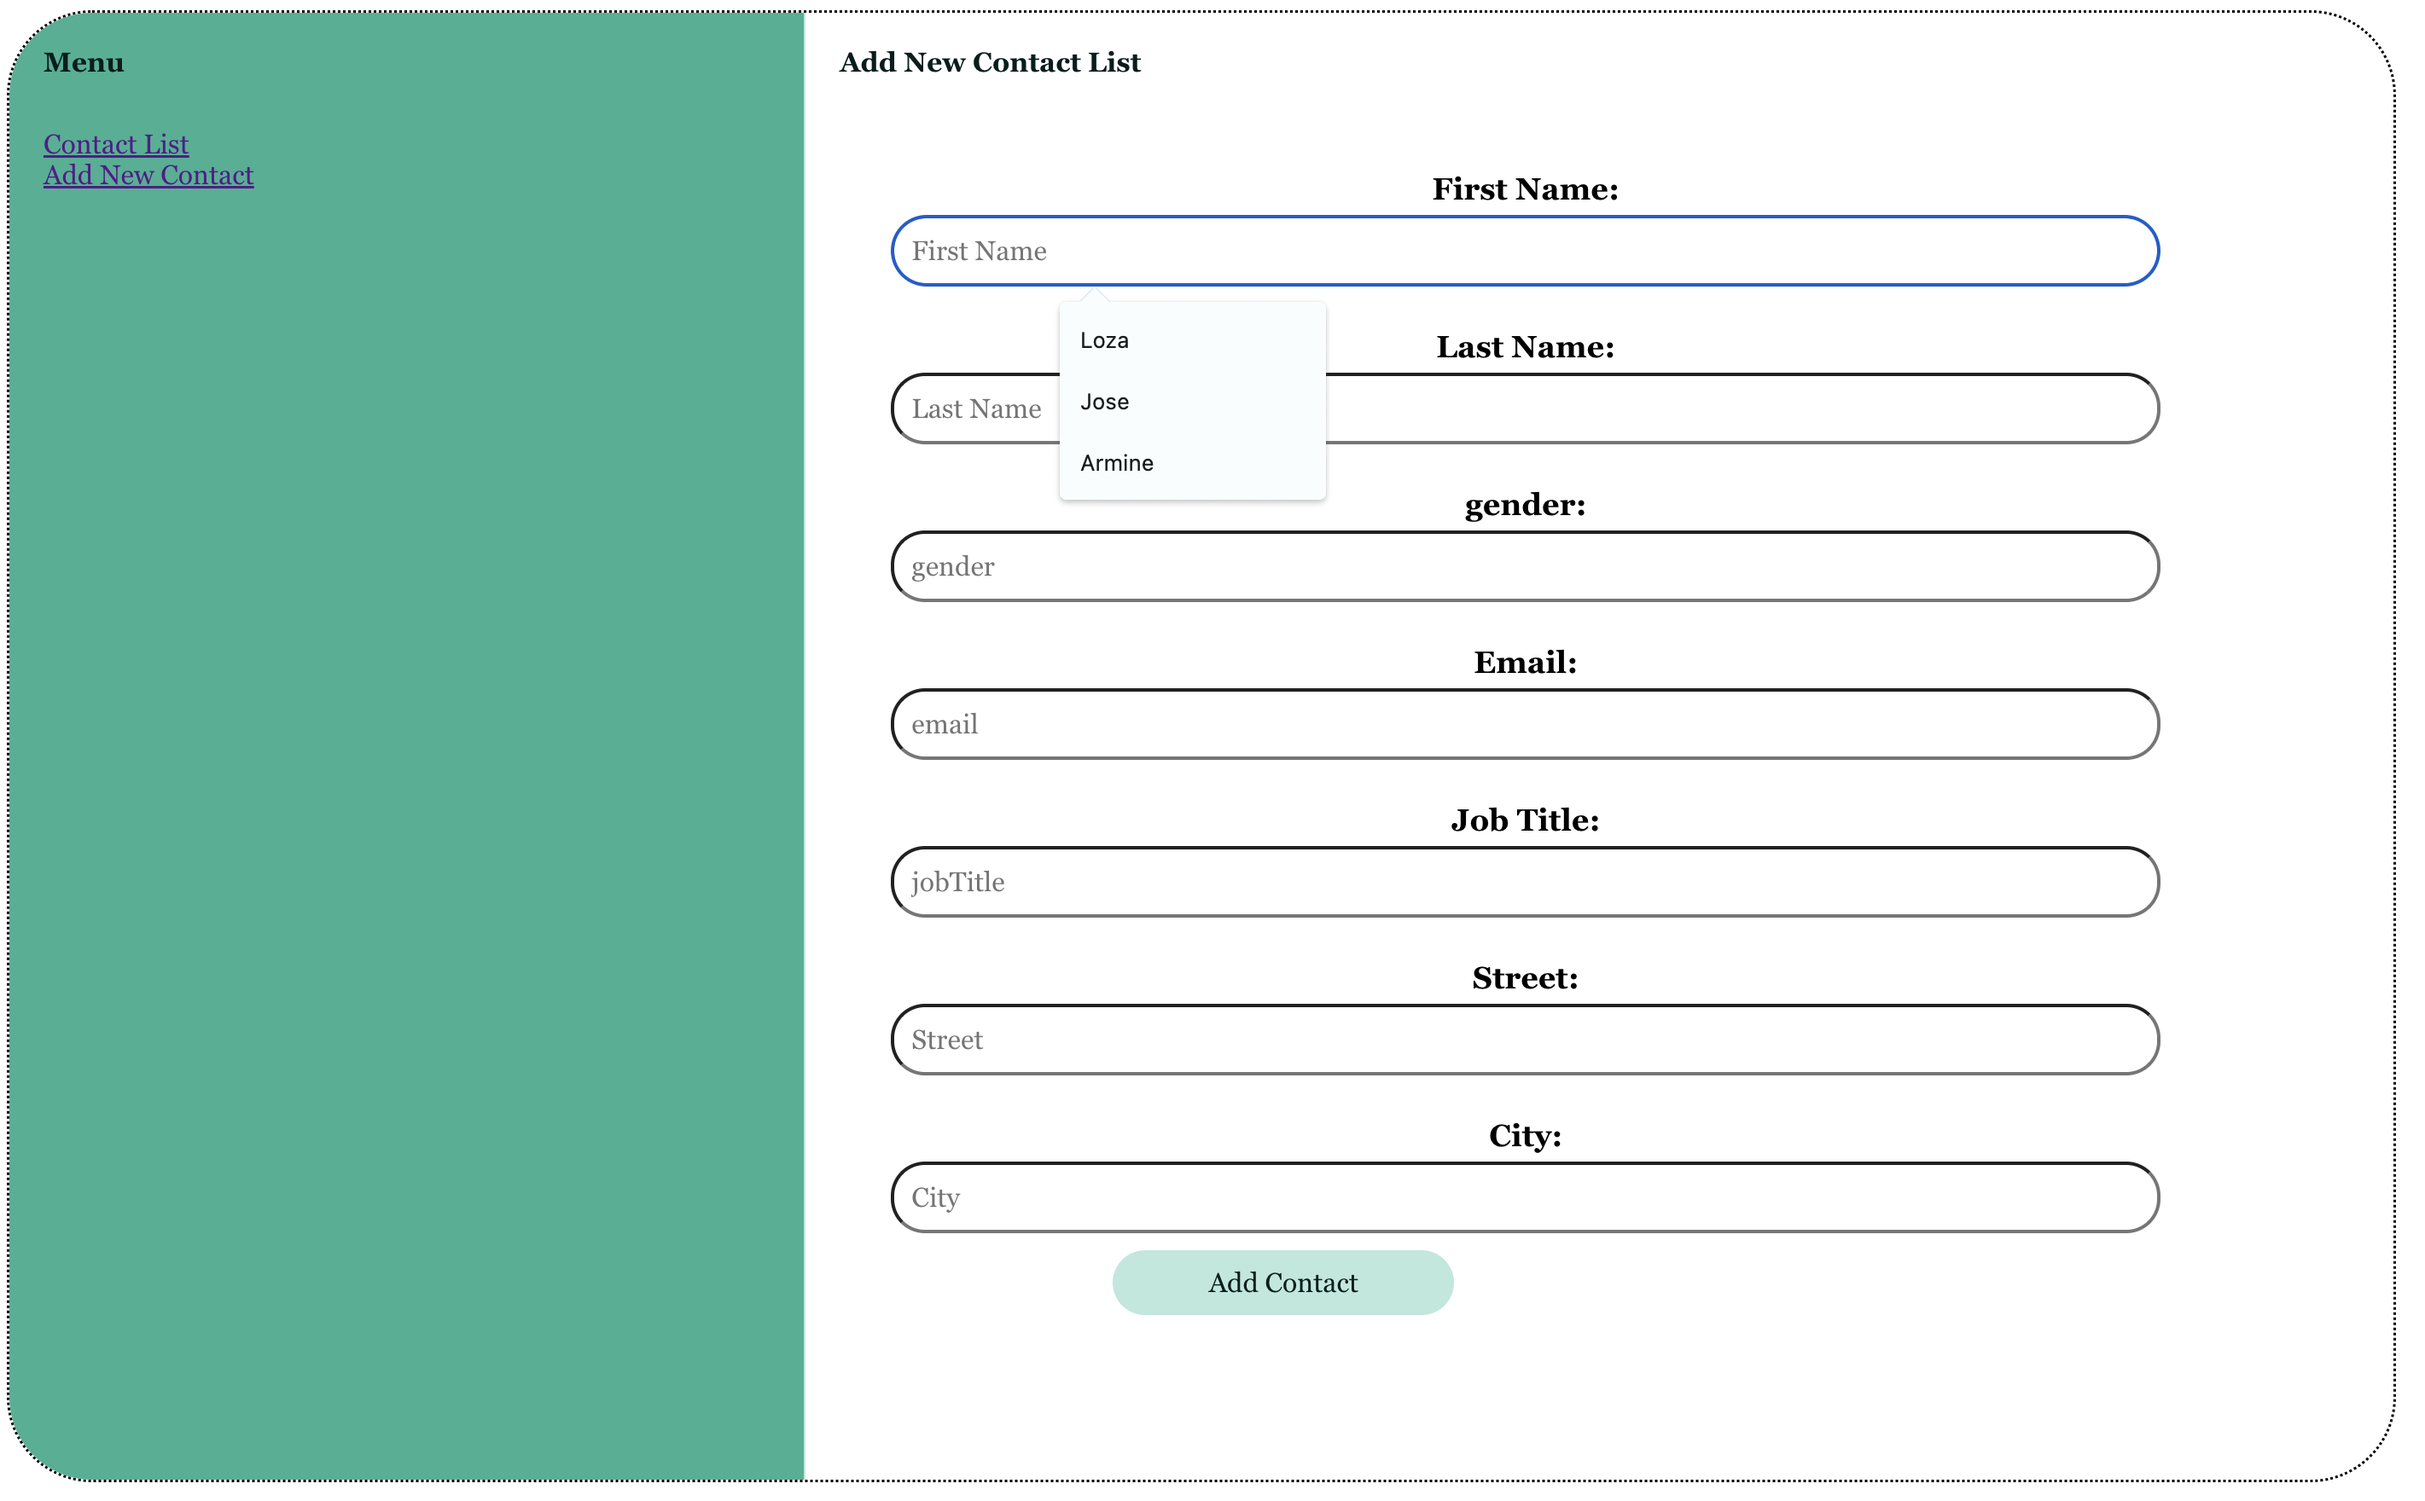
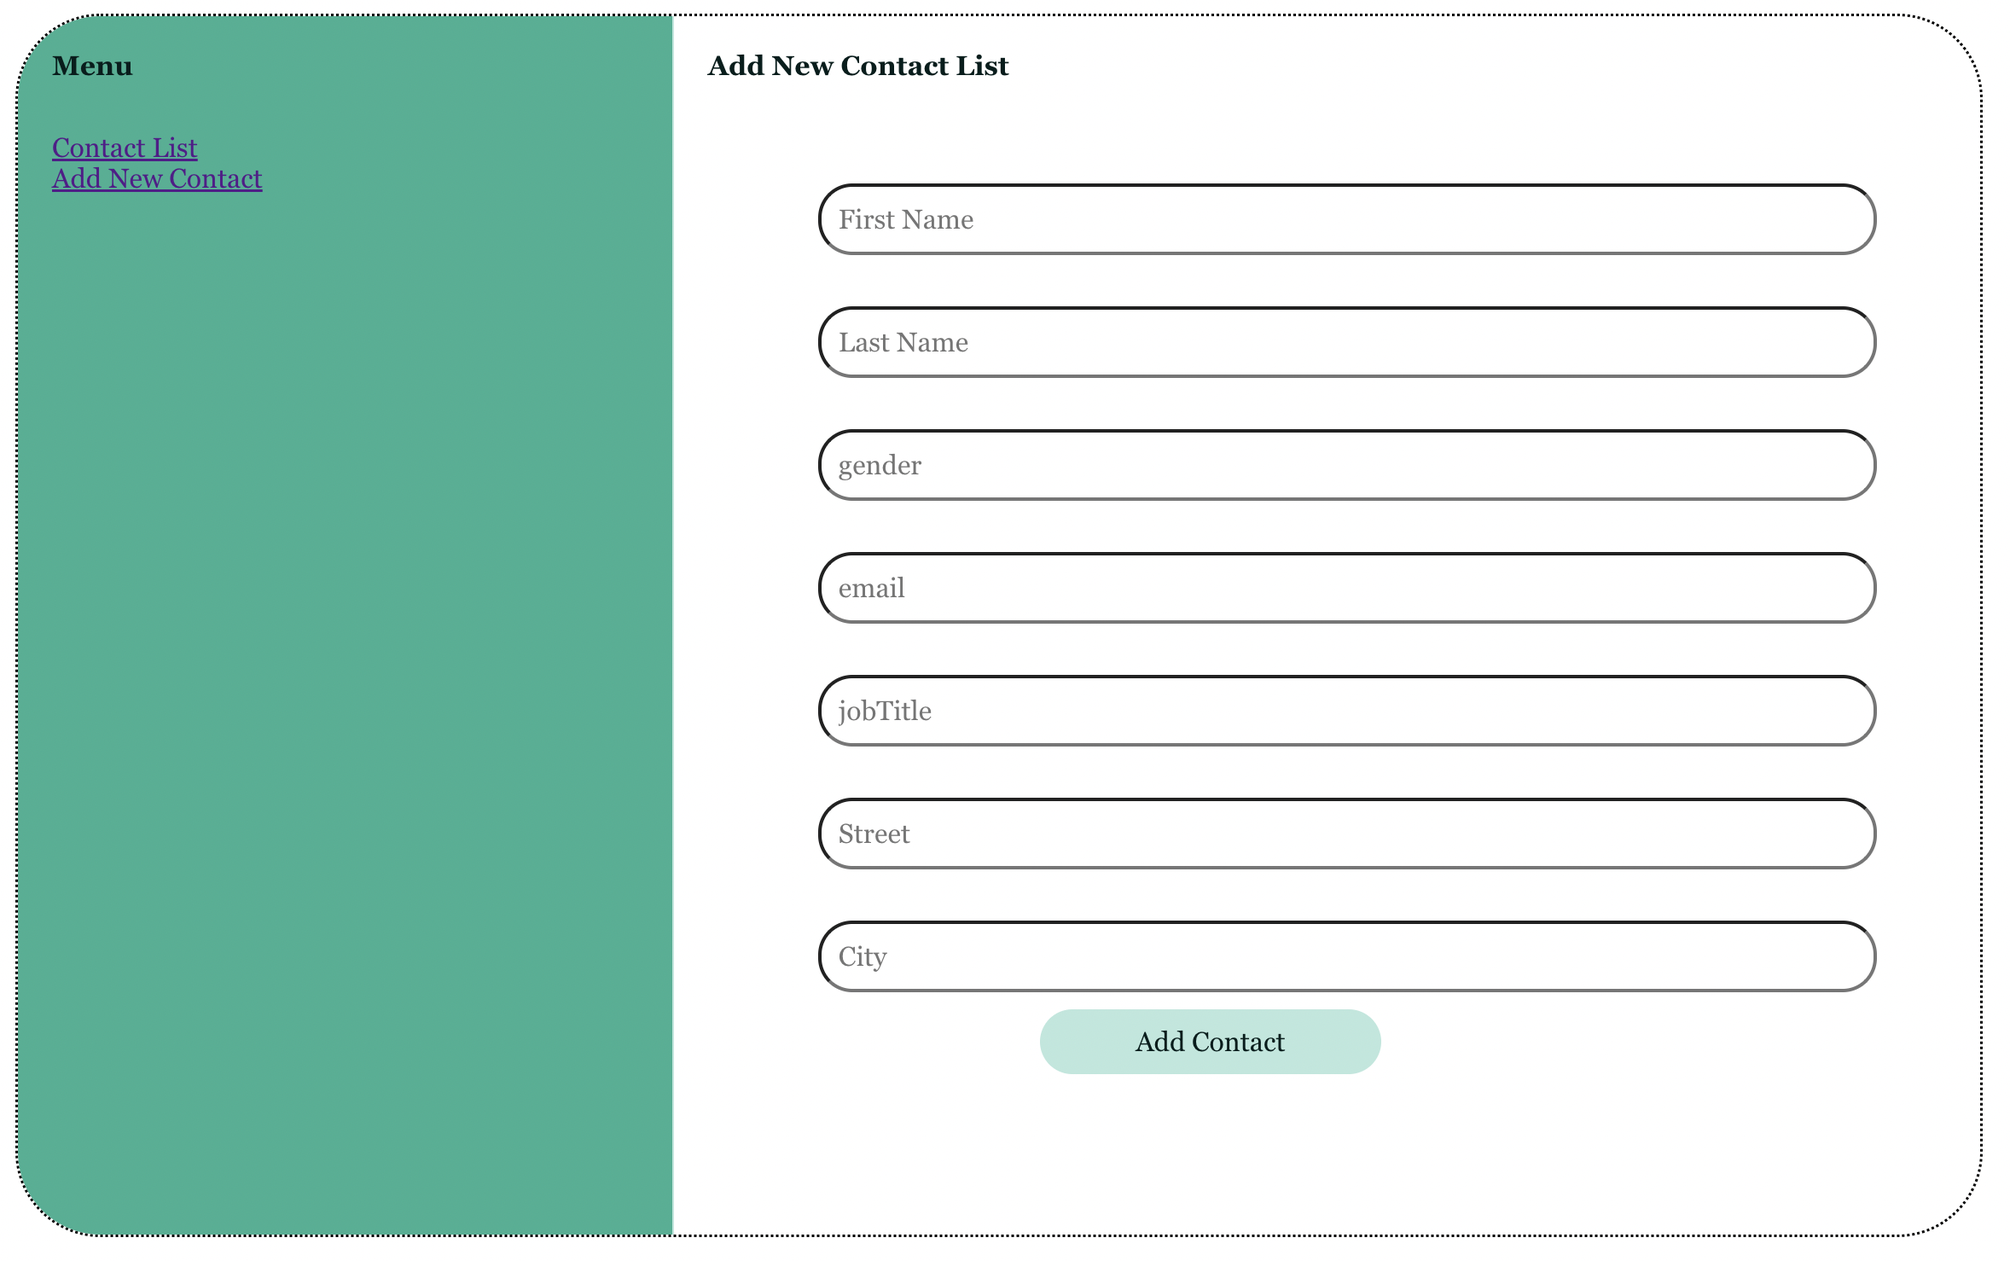
img changed

diff --git a/src/components/Form/Form.jsx b/src/components/Form/Form.jsx
@@ -55,7 +55,7 @@ function Form (props) {
     return (
         <form onSubmit={(e) => handleFormSubmit(e)}>
             <div className = "form-element">
-                <label htmlFor = "First Name">First Name:</label>
+                <label htmlFor = "First Name"></label>
                 <input 
                 name = "firstName"
                 type = "text" 
@@ -65,7 +65,7 @@ function Form (props) {
                 />
             </div>
             <div className = "form-element">
-                <label htmlFor = "Last Name">Last Name:</label>
+                <label htmlFor = "Last Name"></label>
                 <input 
                 name = "lastName"
                 type = "text" 
@@ -75,7 +75,7 @@ function Form (props) {
                 />
             </div>
             <div className = "form-element">
-                <label htmlFor = "gender">gender:</label>
+                <label htmlFor = "gender"></label>
                 <input 
                 name = "gender"
                 type = "text" 
@@ -85,7 +85,7 @@ function Form (props) {
                 />
             </div>
             <div className = "form-element">
-                <label htmlFor = "email">Email:</label>
+                <label htmlFor = "email"></label>
                 <input 
                 name = "email"
                 type = "text" 
@@ -95,7 +95,7 @@ function Form (props) {
                 />
             </div>
             <div className = "form-element">
-                <label htmlFor = "jobTitle">Job Title:</label>
+                <label htmlFor = "jobTitle"></label>
                 <input 
                 name = "jobTitle"
                 type = "text" 
@@ -105,7 +105,7 @@ function Form (props) {
                 />
             </div>
             <div className = "form-element">
-                <label htmlFor = "Street">Street:</label>
+                <label htmlFor = "Street"></label>
                 <input 
                 name = "street"
                 type = "text" 
@@ -115,7 +115,7 @@ function Form (props) {
                 />
             </div>
             <div className = "form-element">
-                <label htmlFor = "City">City:</label>
+                <label htmlFor = "City"></label>
                 <input
                 name = "city" 
                 type = "text" 

diff --git a/src/components/Form/Form.css b/src/components/Form/Form.css
@@ -4,7 +4,7 @@ form {
     height: max-content;
     display: grid;
     align-items: center;
-    justify-content: left;
+    justify-content: center;
 }
 
 .form-element {
@@ -29,4 +29,5 @@ form {
     border-radius: 20px;
     margin-left: 140px;
     padding: 10px;
+    justify-content: center;
 }
